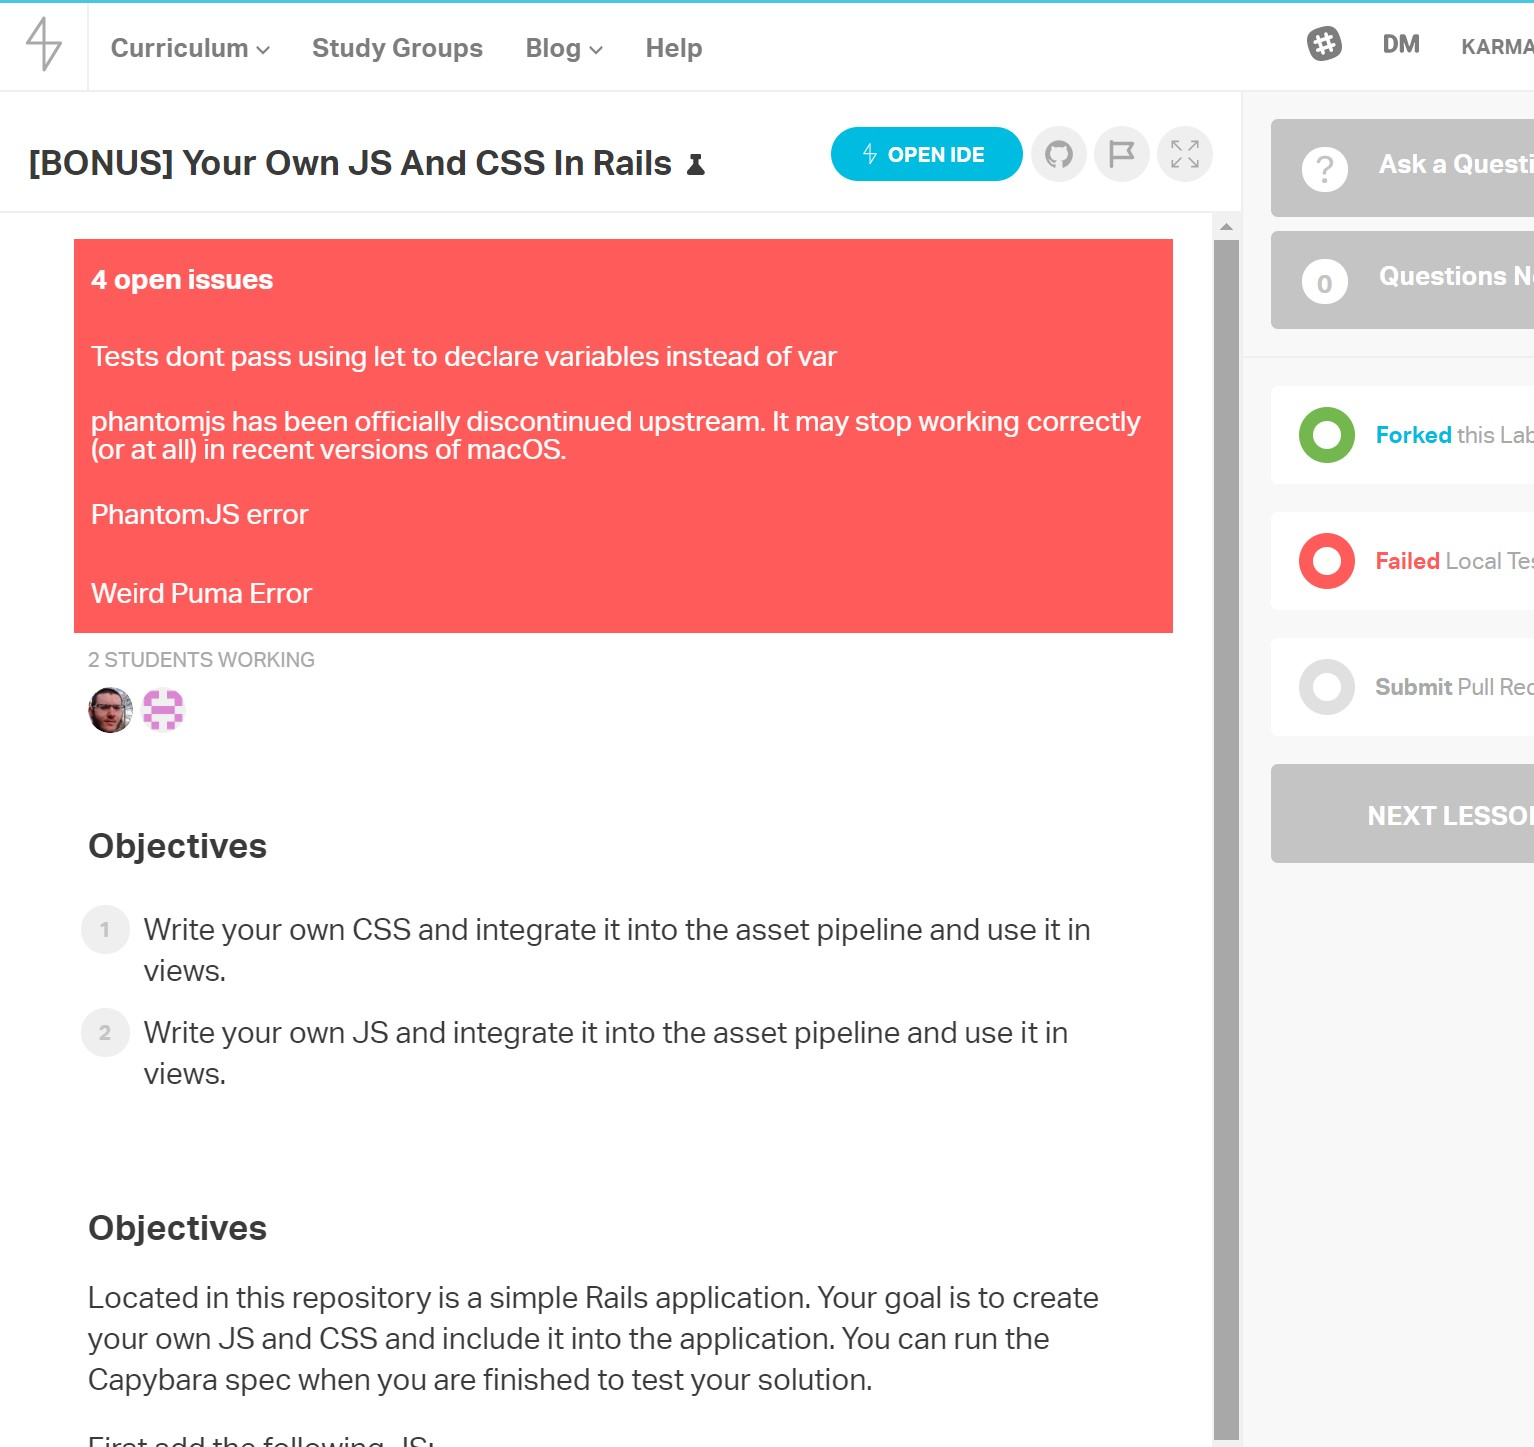
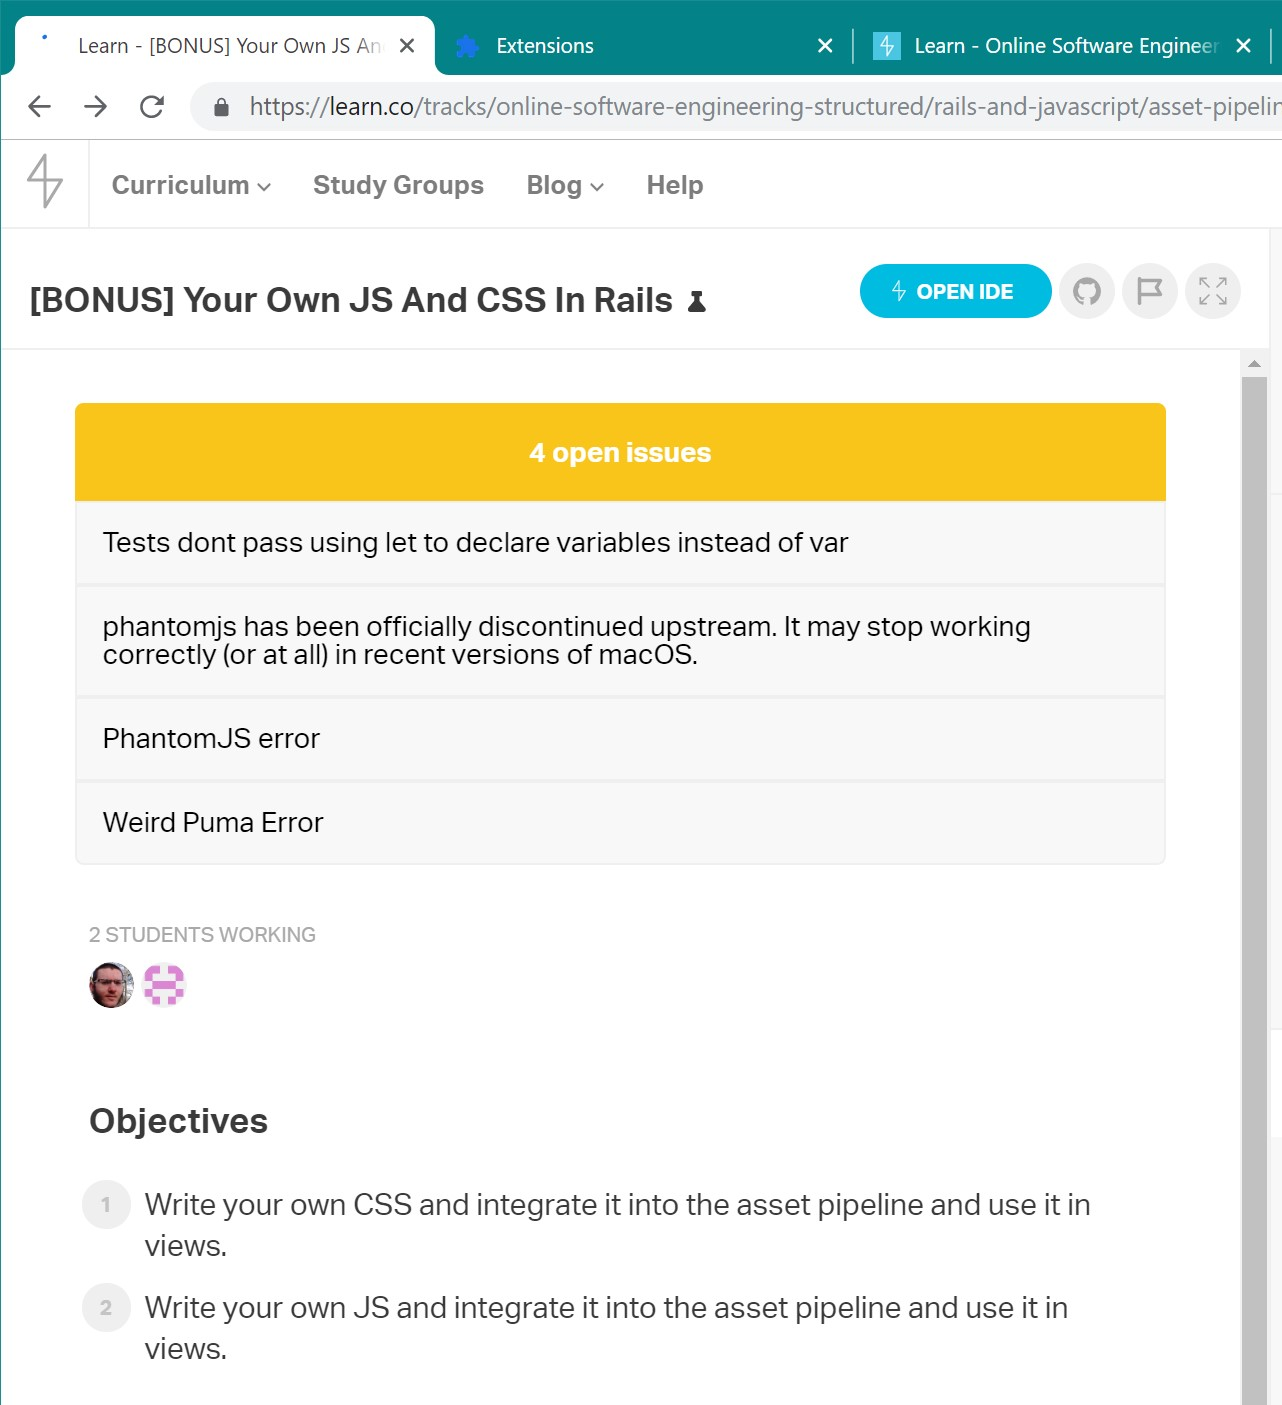
Update readme and screenshot

diff --git a/style.css b/style.css
@@ -44,7 +44,7 @@
 
 .learn-issues-extension--content {
   box-sizing: border-box;
-  padding: 42px;
+  padding: 15px 42px 25px;
   margin: 0 auto;
 }
 

diff --git a/README.md b/README.md
@@ -1,16 +1,19 @@
 # learn-issues-extension
 
-An extension for the Learn.co website, adding open issues to the lessons.
+An extension for the Learn.co website. Adds a banner to the page, showing open issues.
 
-When opening a lesson it will check github for any open issues in the current lesson It will then add a warning on the top of the page with a link to each issue
+When opening a lesson it will check github for any open issues in the current lesson It will then add a banner to the top of the page saying how many issues there are with a link to each one.
+
+The banner is color coded based on how many issues are open. None is green, until five is yellow, five and more is red.
+
+**Notice**: Currently the github api requests are rate limited to 60 requests per hour. Sometimes the extension by accident makes two requests, so this may come out to even less page loads before it stops working. This usually won't be an issue with normal usage.
 
 ## Instalation
 
-- Download this repository `git@github.com:arye-dov-eidelman/learn-issues-extension.git`
+- Download this repository `git clone git@github.com:arye-dov-eidelman/learn-issues-extension.git`
 - Navigate to `chrome://extensions/`.
 - Enable __Developer mode__ if it's not already enabled.
 - Click __Load unpacked__.
 - Select the downloaded folder.
-- 
 
 ![Screenshot of learn.co website with 4 open issues](screenshot1.jpg)
